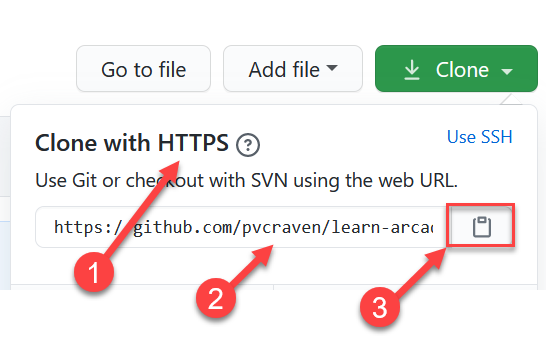
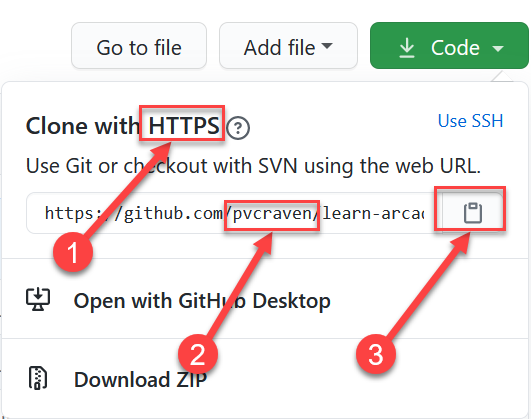
Update

diff --git a/source/chapters/03_version_control/index.rst b/source/chapters/03_version_control/index.rst
@@ -152,6 +152,10 @@ Forking the Repository
 Cloning the Repository
 ----------------------
 
+.. |code_button| image:: code_button.png
+  :height: 1em
+  :alt: Code Button
+
 .. note::
     Every time you start working on a new computer, you'll need to create a clone.
     (Unless you use a flash drive.)
@@ -193,12 +197,11 @@ Cloning the Repository
    * ``cd ..`` - Go up one directory. So if you are in ``C:\home\user\Desktop``
      you'll go up to ``C:\home\user``
 
-
 4. We want to
    copy the repository you created to your computer. We'll call this a "clone."
    A clone is a copy
    we normally try to keep synced up, which is different than a "fork." Click
-   the clone button and see the figure below.
+   the |code_button| button and see the figure below.
    1) Make sure you are cloning using "HTTPS". 2) Make sure the account shown
    is yours, and not mine or "pythonarcade". 3) Click the copy link button.
 
@@ -376,7 +379,7 @@ What happens if you can't push to the server? If you get an error like what's be
 .. code-block:: text
   :emphasize-lines: 4,5
 
-    $ git push
+    C:\Users\craven\Desktop\learn-arcade-work> git push
     To bitbucket.org:pcraven/arcade-games-work2.git
      ! [rejected]        master -> master (fetch first)
     error: failed to push some refs to 'git@bitbucket.org:pcraven/arcade-games-work2.git'
@@ -399,7 +402,7 @@ Pull changes from the server:
 
 .. code-block:: text
 
-    $ git pull
+    git pull
 
 Normally, this will work fine and you'll be done. If so, you can do a
 ``git push`` and your code will be pushed to the server.
@@ -423,7 +426,6 @@ It should finish with something that looks like:
 
 .. code-block:: text
 
-    craven@DESKTOP-RAUFKMA MINGW64 ~/arcade-games-work2 (master)
     Merge made by the 'recursive' strategy.
      Lab 01 - First Program/lab_01.py | 3 ++-
      1 file changed, 2 insertions(+), 1 deletion(-)
@@ -433,7 +435,7 @@ If instead you get this:
 .. code-block: text
    :emphasize-lines: 9
 
-    $ git pull
+    C:\Users\craven\Desktop\learn-arcade-work> git pull
     remote: Counting objects: 4, done.
     remote: Compressing objects: 100% (4/4), done.
     remote: Total 4 (delta 1), reused 0 (delta 0)
@@ -456,7 +458,7 @@ Do a ``git status``. It should look something like this:
 .. code-block:: text
     :emphasize-lines: 13
 
-    $ git status
+    C:\Users\craven\Desktop\learn-arcade-work> git status
     On branch master
     Your branch and 'origin/master' have diverged,
     and have 1 and 1 different commits each, respectively.
@@ -478,28 +480,25 @@ If you want **your** copy, type:
 
 .. code-block:: text
 
-    $ git checkout --ours "Lab 01 - First Program/lab_01.py"
+    git checkout --ours "Lab 01 - First Program/lab_01.py"
 
 If instead you want **their** copy (or the copy on the other computer)
 type
 
 .. code-block:: text
 
-    $ git checkout --theirs "Lab 01 - First Program/lab_01.py"
+    git checkout --theirs "Lab 01 - First Program/lab_01.py"
 
 Then when you are all done with all merges, type:
 
 .. code-block:: text
 
-    craven@DESKTOP-RAUFKMA MINGW64 ~/arcade-games-work2 (master|MERGING)
-    $ git add *
+    C:\Users\craven\Desktop\learn-arcade-work> git add *
 
-    craven@DESKTOP-RAUFKMA MINGW64 ~/arcade-games-work2 (master|MERGING)
-    $ git commit -m"Merged"
+    C:\Users\craven\Desktop\learn-arcade-work> git commit -m"Merged"
     [master e083f36] Merged
 
-    craven@DESKTOP-RAUFKMA MINGW64 ~/arcade-games-work2 (master)
-    $ git push
+    C:\Users\craven\Desktop\learn-arcade-work> git push
     Counting objects: 5, done.
     Delta compression using up to 8 threads.
     Compressing objects: 100% (5/5), done.
@@ -514,7 +513,7 @@ Step 4: Try Pushing Again
 
 .. code-block:: text
 
-    $ git push
+    C:\Users\craven\Desktop\learn-arcade-work> git push
     Counting objects: 6, done.
     Delta compression using up to 8 threads.
     Compressing objects: 100% (4/4), done.

diff --git a/source/chapters/10_if_statements/if_statements.rst b/source/chapters/10_if_statements/if_statements.rst
@@ -341,9 +341,15 @@ because the values in the ``if`` statement are non-zero:
     if "A":
         print("A")
 
+.. sidebar:: What values are False?
+
+   There are a few other values besides zero that are treated as ``False``.
+   Namely the ``None`` keyword, an empty string ``""``, and an empty list.
+   We'll cover lists and the ``None`` keyword in later chapters.
+
 The code below will not print out anything because the value in the ``if``
-statement is zero which is treated as ``False``.
-*Any value other than zero is considered ``True``*.
+statement is zero. The value zero is treated as ``False``.
+Any value other than zero (like 2, -1, 600, or even "Fred") is considered ``True``.
 
 .. code-block:: python
     :linenos:

diff --git a/source/chapters/02_setup/setup.rst b/source/chapters/02_setup/setup.rst
@@ -91,9 +91,8 @@ Also, the creator of Python was a fan of `Monty Python`_, hence the name.)
 
 .. _Monty Python: https://en.wikipedia.org/wiki/Monty_Python
 
-Download Python from the official Python website:
-
-https://www.python.org/downloads/
+| Download Python from the official Python website:
+| https://www.python.org/downloads/
 
 When installing Python, make sure to add Python to the path (1) before clicking the Install
 button (2).

diff --git a/source/chapters/20_debugging/debugging.rst b/source/chapters/20_debugging/debugging.rst
@@ -10,3 +10,8 @@ Use Print Statements
 Google The Error
 ----------------
 
+.. _how_to_ask_questions:
+
+How to Ask Questions
+--------------------
+
